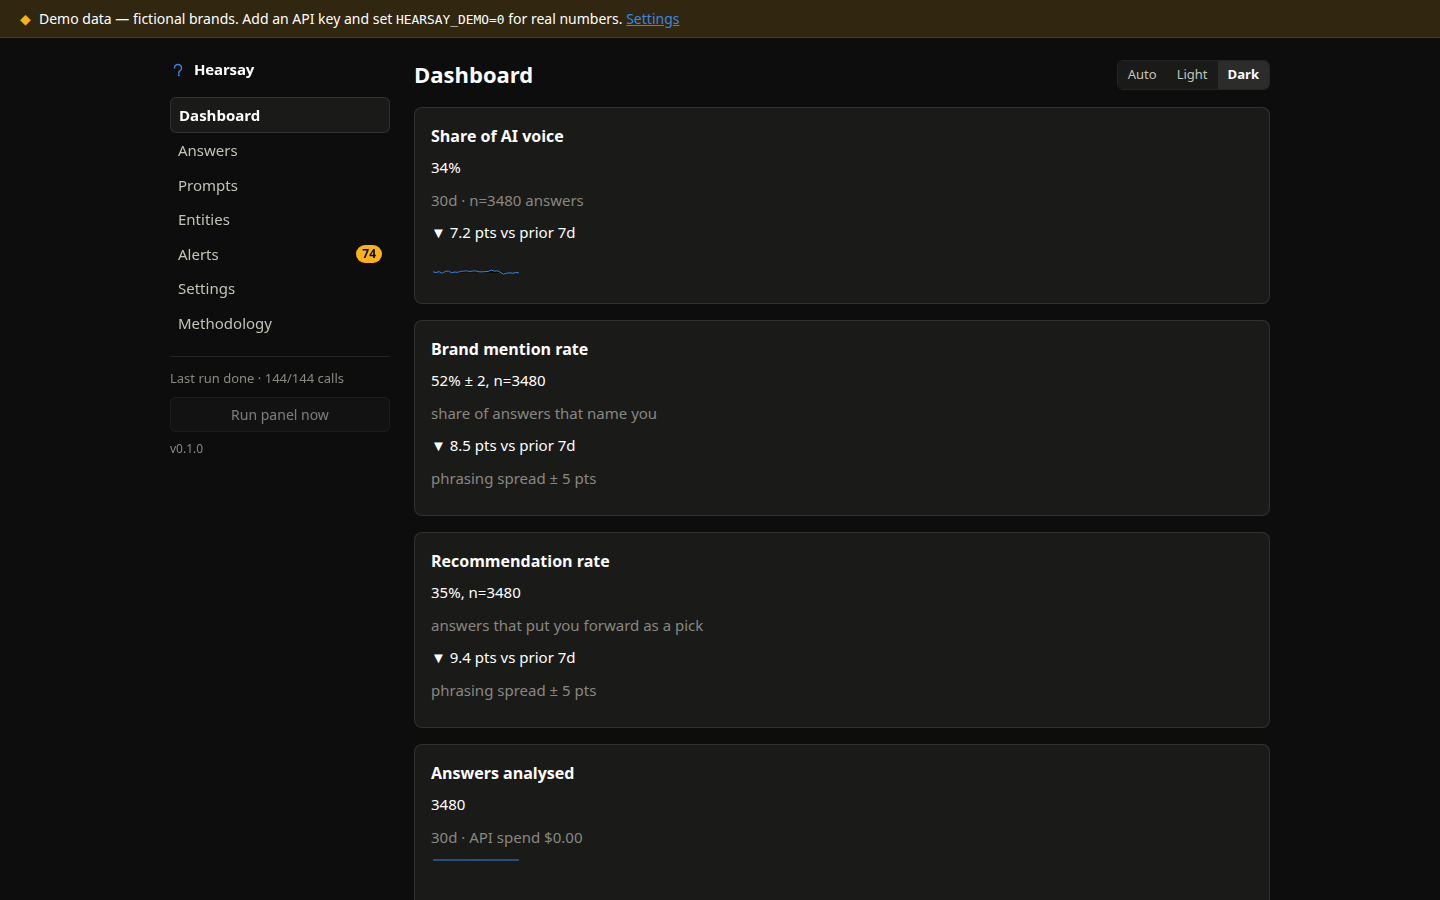
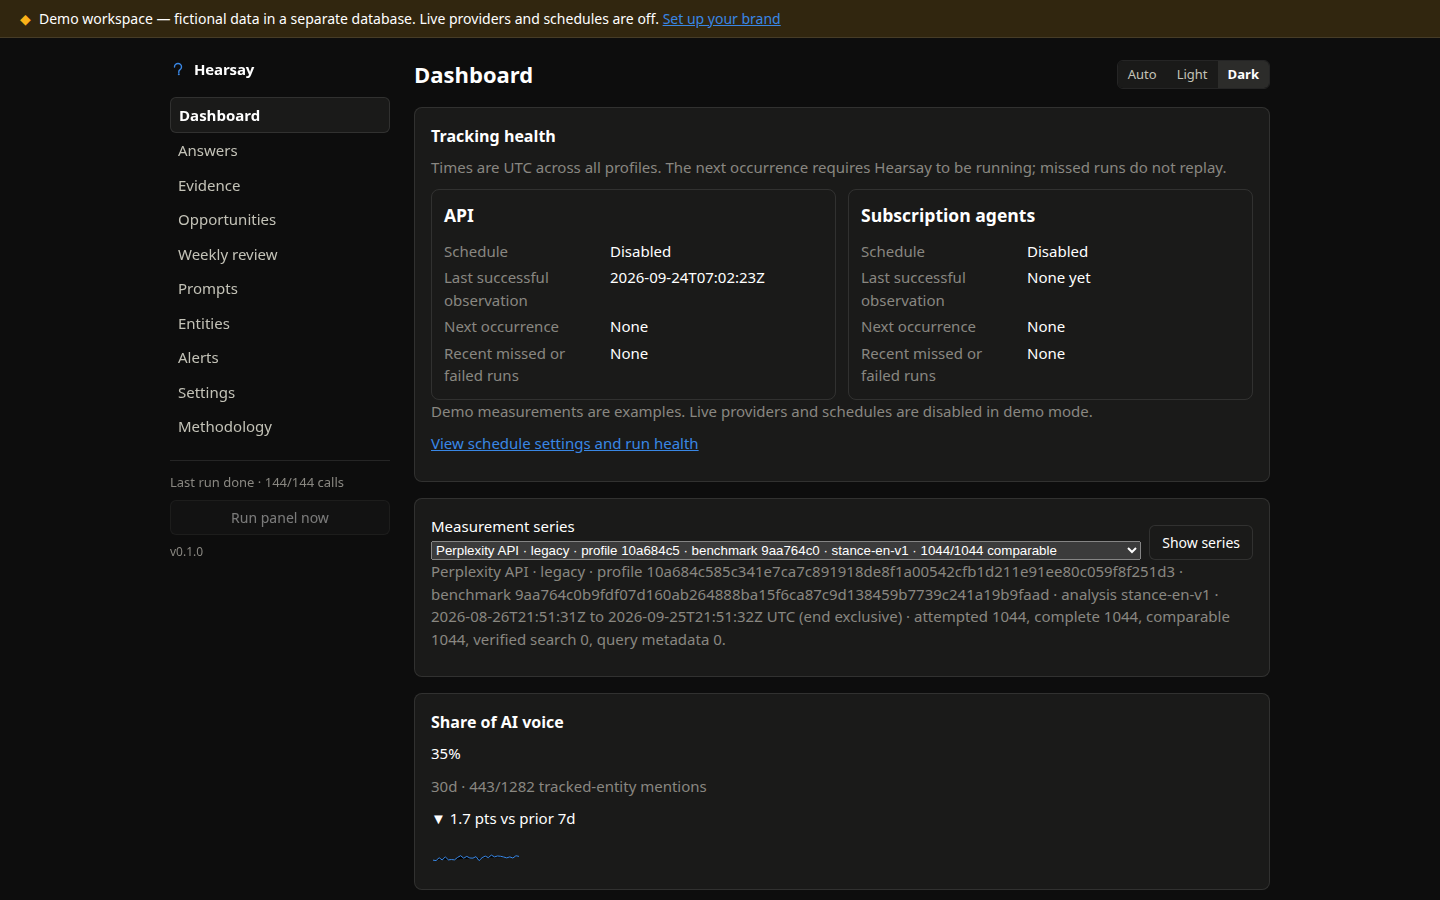
fix: show seeded demo in exact measurement series

diff --git a/core/seed.js b/core/seed.js
@@ -3,8 +3,8 @@
  *
  * Phase 1 Lane D implements it: mulberry32 seeded with 1337, the invented Notewell /
  * Jotta / EchoPad / Quillo universe, 5 intents × 2–3 paraphrases, 30 days × 4 providers
- * × 12 prompts × 3 samples, scripted storylines that produce MENTION_DROP and
- * OVERTAKEN alerts. Template answers go through the real
+ * × 12 prompts × 3 samples, scripted storylines that change observed rates.
+ * Template answers go through the real
  * analyzeResponse() and the same DB writes as a live run, with runs.trigger='seed'.
  * No real brand names, ever (§19.5 #8).
  *
@@ -16,14 +16,15 @@
  *
  * Storylines are *scripted probabilities*, not scripted rows: mention probabilities per
  * (provider, entity) drift over the window, answers are template-assembled from those
- * draws, and the alerts fall out of the real `core/alerts.js` rules evaluated after each
- * seeded run — the same code path a live panel takes (§9, §12).
+ * draws, and the real `core/alerts.js` rules run after each seeded panel. New-series
+ * business-change alerts are suppressed; collection-health alerts remain available.
  */
 
 import { analyzeResponse as defaultAnalyze, containsAlias, STANCE_REVISION } from './analyze.js';
 import { storeInterpretation } from './interpretations.js';
 import { evaluate as defaultEvaluateAlerts } from './alerts.js';
 import { SETTING_KEYS, all, get, isoNow, run as exec, setSetting, transaction } from './db.js';
+import { benchmarkRevision, executionProfile } from './measurement-contract.js';
 
 /** @typedef {import('node:sqlite').DatabaseSync} Db */
 /** @typedef {import('./analyze.js').AnalyzeEntity} AnalyzeEntity */
@@ -331,6 +332,7 @@ export function baseProbability(provider, entity, dayIndex, days) {
 /**
  * @typedef {Object} SeedPrompt
  * @property {number} id
+ * @property {number} intentId
  * @property {string} text
  * @property {string} category
  * @property {string} topic
@@ -657,9 +659,38 @@ export function seed(db, opts = {}) {
         intent.category,
         createdAt,
       ]).lastInsertRowid;
-      prompts.push({ id, text, category: intent.category, topic: intent.topic, want: intent.want, axis: intent.axis });
+      prompts.push({ id, intentId, text, category: intent.category,
+        topic: intent.topic, want: intent.want, axis: intent.axis });
     }
   }
+
+  const benchmark = benchmarkRevision({
+    questions: prompts.map((prompt) => ({ id: prompt.id, intentId: prompt.intentId,
+      category: prompt.category, text: prompt.text })),
+    entities: entities.map((entity) => ({ id: entity.id,
+      role: /** @type {'brand'|'competitor'} */ (entity.isSelf ? 'brand' : 'competitor'),
+      name: entity.name, aliases: entity.aliases, domains: entity.domains })),
+    weighting: 'equal',
+    scope: 'main',
+  });
+  exec(db, 'INSERT OR IGNORE INTO benchmark_revisions(id,snapshot_json,created_at) VALUES(?,?,?)',
+    [benchmark.id, JSON.stringify(benchmark.snapshot), createdAt]);
+  const routes = {
+    openai: 'openai-chat-completions-v1',
+    anthropic: 'anthropic-messages-v1',
+    gemini: 'gemini-generate-content-v1',
+    perplexity: 'perplexity-sonar-v1',
+  };
+  const profiles = new Map(DEMO_PROVIDERS.map((provider) => {
+    const surface = provider.id + '-api';
+    const profile = executionProfile({ surface,
+      route: routes[/** @type {keyof typeof routes} */ (provider.id)],
+      model: provider.model, searchPolicy: provider.id === 'perplexity' ? 'legacy' : 'off',
+      envelopeVersion: 'demo-api-v1', limits: { fictional: true } });
+    exec(db, 'INSERT OR IGNORE INTO execution_profiles(id,surface,snapshot_json,created_at) VALUES(?,?,?,?)',
+      [profile.id, surface, JSON.stringify(profile.snapshot), createdAt]);
+    return [provider.id, profile.id];
+  }));
 
   // Prompt affinity (§12): a fixed per-(prompt, entity) offset, plus a structural bonus
   // for entities the prompt names outright — "Notewell vs Jotta" drags both into the
@@ -755,13 +786,25 @@ export function seed(db, opts = {}) {
             const latencyMs = Math.round(LATENCY_MIN + rand() * (LATENCY_MAX - LATENCY_MIN));
             const analysis = analyze(text, analyzeEntities, citations);
 
-            // Same columns, same order as the live path (§8.1); tokens and cost stay null
-            // because nothing was billed (§12).
+            // Demo answers form explicit fictional API series. Tokens and cost stay null
+            // because no provider was called.
+            const profileId = profiles.get(provider.id);
+            if (!profileId) throw new Error('Missing demo execution profile');
             const responseId = exec(
               db,
-              `INSERT INTO responses(run_id, prompt_id, provider, model, sample_idx, text, latency_ms, tokens_in, tokens_out, cost_usd, created_at, analysis_revision)
-               VALUES(?, ?, ?, ?, ?, ?, ?, NULL, NULL, NULL, ?, ?)`,
-              [runId, prompt.id, provider.id, provider.model, sampleIdx, text, latencyMs, createdAtCall, STANCE_REVISION],
+              `INSERT INTO responses(run_id, prompt_id, provider, model, sample_idx, text, latency_ms,
+                tokens_in, tokens_out, cost_usd, created_at, analysis_revision, surface, lane,
+                target_status, comparability_status, web_status, query_metadata_status,
+                search_policy, prompt_text_snapshot, prompt_origin, prompt_envelope_version,
+                comparison_key, execution_profile_id, benchmark_revision_id)
+               VALUES(?, ?, ?, ?, ?, ?, ?, NULL, NULL, NULL, ?, ?, ?, 'tracking',
+                 'completed', 'comparable', ?, 'unavailable', ?, ?, 'seed', 'demo-api-v1', ?, ?, ?)`,
+              [runId, prompt.id, provider.id, provider.model, sampleIdx, text, latencyMs,
+                createdAtCall, STANCE_REVISION, `${provider.id}-api`,
+                provider.id === 'perplexity' ? 'unverified' : 'not_used',
+                provider.id === 'perplexity' ? 'legacy' : 'off', prompt.text,
+                `demo:${provider.id}:${provider.model}:v1`, profileId,
+                benchmark.id],
             ).lastInsertRowid;
 
             for (const mention of analysis.mentions) {

diff --git a/test/seed.test.js b/test/seed.test.js
@@ -4,6 +4,7 @@ import test, { after } from 'node:test';
 import assert from 'node:assert/strict';
 
 import { all, get, openDb, run } from '../core/db.js';
+import { listMeasurementSeries } from '../core/metrics.js';
 import {
   DEMO_DAYS,
   DEMO_ENTITIES,
@@ -223,6 +224,22 @@ test('seeded responses carry no tokens and no cost (§12)', () => {
   assert.equal(Number(get(db, "SELECT COUNT(*) AS n FROM responses WHERE text IS NULL OR text = ''")?.n), 0);
 });
 
+test('fictional demo answers appear in separate exact API series', () => {
+  const series = listMeasurementSeries(demo.db, {
+    start: '2026-06-26T00:00:00Z', end: '2026-07-26T00:00:00Z',
+  });
+  assert.equal(series.length, DEMO_PROVIDERS.length);
+  for (const provider of DEMO_PROVIDERS) {
+    const selected = series.find((item) => item.surface === `${provider.id}-api`);
+    assert.ok(selected);
+    assert.ok(selected.executionProfileId);
+    assert.ok(selected.benchmarkRevisionId);
+    assert.equal(selected.searchPolicy, provider.id === 'perplexity' ? 'legacy' : 'off');
+    assert.equal(selected.attemptedTargets, DEMO_DAYS * 12 * DEMO_SAMPLES);
+    assert.equal(selected.comparableAnswers, selected.attemptedTargets);
+  }
+});
+
 test('answers come from several template families, and the hedging ones never recommend', () => {
   const { db } = demo;
 
@@ -257,26 +274,12 @@ test('answers come from several template families, and the hedging ones never re
   assert.ok(openings.size >= 6, `only ${openings.size} distinct answer openings`);
 });
 
-test('the demo storylines retain mention alerts and suppress heuristic recommendation alerts', () => {
+test('demo series suppress business-change alerts while retaining rate storylines', () => {
   const { db, summary } = demo;
 
-  for (const type of ['MENTION_DROP', 'OVERTAKEN']) {
-    assert.ok((summary.alertTypes[type] ?? 0) >= 1, `the demo universe produced no ${type} alert`);
+  for (const type of ['MENTION_DROP', 'OVERTAKEN', 'LOST_RECOMMENDATION', 'GAINED_RECOMMENDATION']) {
+    assert.equal(summary.alertTypes[type] ?? 0, 0);
   }
-  assert.equal(summary.alertTypes.LOST_RECOMMENDATION ?? 0, 0);
-  assert.equal(summary.alertTypes.GAINED_RECOMMENDATION ?? 0, 0);
-
-  // The Gemini cliff: the brand's mention rate falls in the last week (§12).
-  const drop = get(
-    db,
-    "SELECT provider, detail FROM alerts WHERE type = 'MENTION_DROP' AND provider = 'gemini' ORDER BY created_at DESC LIMIT 1",
-  );
-  assert.ok(drop, 'no MENTION_DROP on Gemini — the scripted cliff did not land');
-  assert.match(String(drop?.detail), /Notewell was mentioned in \d+\/\d+ valid answers/);
-
-  // Jotta crossing the brand in share of voice (§12).
-  const overtaken = get(db, "SELECT e.name AS name FROM alerts a JOIN entities e ON e.id = a.entity_id WHERE a.type = 'OVERTAKEN' ORDER BY a.created_at DESC LIMIT 1");
-  assert.equal(String(overtaken?.name), 'Jotta');
 
   // Every alert is a real row of the §3 shape: severities in range, titles inside the cap,
   // details carrying numbers (§9, §19.6 #4).
@@ -288,8 +291,8 @@ test('the demo storylines retain mention alerts and suppress heuristic recommend
     assert.ok(Number(alert.run_id) > 0, 'alerts point at the run that produced them');
   }
 
-  // The brand's Gemini mention rate really does collapse in the last week, and really does
-  // climb on Perplexity — the alerts above are downstream of the data, not hand-written.
+  // The brand's Gemini mention rate falls in the last week and climbs on Perplexity.
+  // These data patterns remain inspectable without treating them as new-series alerts.
   const rate = (/** @type {string} */ provider, /** @type {string} */ from, /** @type {string} */ to) => {
     const row = get(
       db,

diff --git a/scripts/screenshot.js b/scripts/screenshot.js
@@ -15,6 +15,7 @@
  */
 
 import { mkdtempSync, mkdirSync, rmSync } from 'node:fs';
+import assert from 'node:assert/strict';
 import { tmpdir } from 'node:os';
 import { dirname, join, resolve } from 'node:path';
 import { fileURLToPath } from 'node:url';
@@ -69,7 +70,12 @@ async function capture(browser, origin, shot) {
   `);
   await page.goto(origin + shot.pagePath, { waitUntil: 'networkidle' });
   await page.waitForTimeout(250); // let SVG charts and fonts settle
-  await page.screenshot({ path: shot.path, clip: shot.clip });
+  if (shot.width < 500) {
+    await page.screenshot({ path: shot.path, fullPage: true });
+    assert.equal(await page.evaluate(() => document.documentElement.scrollWidth <= window.innerWidth), true);
+  } else {
+    await page.screenshot({ path: shot.path, clip: shot.clip });
+  }
   await context.close();
 }
 
@@ -88,6 +94,8 @@ async function main() {
       { pagePath: '/', path: join(DOCS_DIR, 'screenshot-dark.png'), theme: 'dark', width: 1440, height: 900 },
       { pagePath: '/answers', path: join(DOCS_DIR, 'screenshot-answers.png'), theme: 'light', width: 1440, height: 900 },
       { pagePath: '/settings', path: join(DOCS_DIR, 'screenshot-cost.png'), theme: 'light', width: 1440, height: 900 },
+      { pagePath: '/', path: '/tmp/hearsay-c17-demo-narrow-light.png', theme: 'light', width: 390, height: 844 },
+      { pagePath: '/', path: '/tmp/hearsay-c17-demo-narrow-dark.png', theme: 'dark', width: 390, height: 844 },
       // Repo social preview: the dashboard KPI row at GitHub's 1280×640 card size.
       { pagePath: '/', path: join(DOCS_DIR, 'social-preview.png'), theme: 'light', width: 1280, height: 640 },
     ];

diff --git a/web/pages/dashboard.js b/web/pages/dashboard.js
@@ -377,7 +377,7 @@ function seriesSelector(view) {
       <input type="hidden" name="days" value="${view.days}" />
       <button type="submit" class="btn">Show series</button>
     </form>
-    ${view.series ? html`<p class="muted small">${surfaceLabel(view.series.surface)} · ${view.series.searchPolicy ?? 'legacy'}
+    ${view.series ? html`<p class="muted small series-description">${surfaceLabel(view.series.surface)} · ${view.series.searchPolicy ?? 'legacy'}
       · profile ${view.series.executionProfileId ?? 'legacy'} · benchmark ${view.series.benchmarkRevisionId ?? 'legacy'}
       · analysis ${view.series.analysisRevision ?? 'legacy'} · ${view.series.start} to ${view.series.end} UTC (end exclusive)
       · attempted ${view.series.attemptedTargets}, complete ${view.series.completeAnswers}, comparable ${view.series.comparableAnswers},

diff --git a/test/e2e.test.js b/test/e2e.test.js
@@ -30,7 +30,10 @@ test('e2e: seeded demo instance tells the full story', async () => {
       assert.ok(key in summary.body, `summary missing ${key}`); // §10.4 key-shape
     }
     assert.equal(summary.body.demo, true);
-    assert.ok(summary.body.openAlerts >= 2, 'seed storylines must produce alerts (§12)');
+    assert.equal(summary.body.openAlerts, 0, 'complete demo series should not invent business-change alerts');
+    const series = await api(app.base, 'GET', '/api/series?days=30');
+    assert.equal(series.body.series.length, 4);
+    assert.ok(series.body.series.every((item) => item.comparableAnswers > 0));
 
     assert.equal((await api(app.base, 'POST', '/api/run', { confirm: true })).status, 400); // demo blocks runs
     assert.equal((await api(app.base, 'POST', '/api/setup', { brand: { name: 'X' } })).status, 400);

diff --git a/public/style.css b/public/style.css
@@ -439,6 +439,7 @@ p {
 .filter-row { display: flex; flex-wrap: wrap; align-items: end; gap: 8px; }
 .filter-row label { display: grid; gap: 4px; flex: 1 1 240px; min-width: 0; }
 .filter-row select { width: 100%; min-width: 0; }
+.series-description { overflow-wrap: anywhere; }
 
 .table th,
 .table td {
